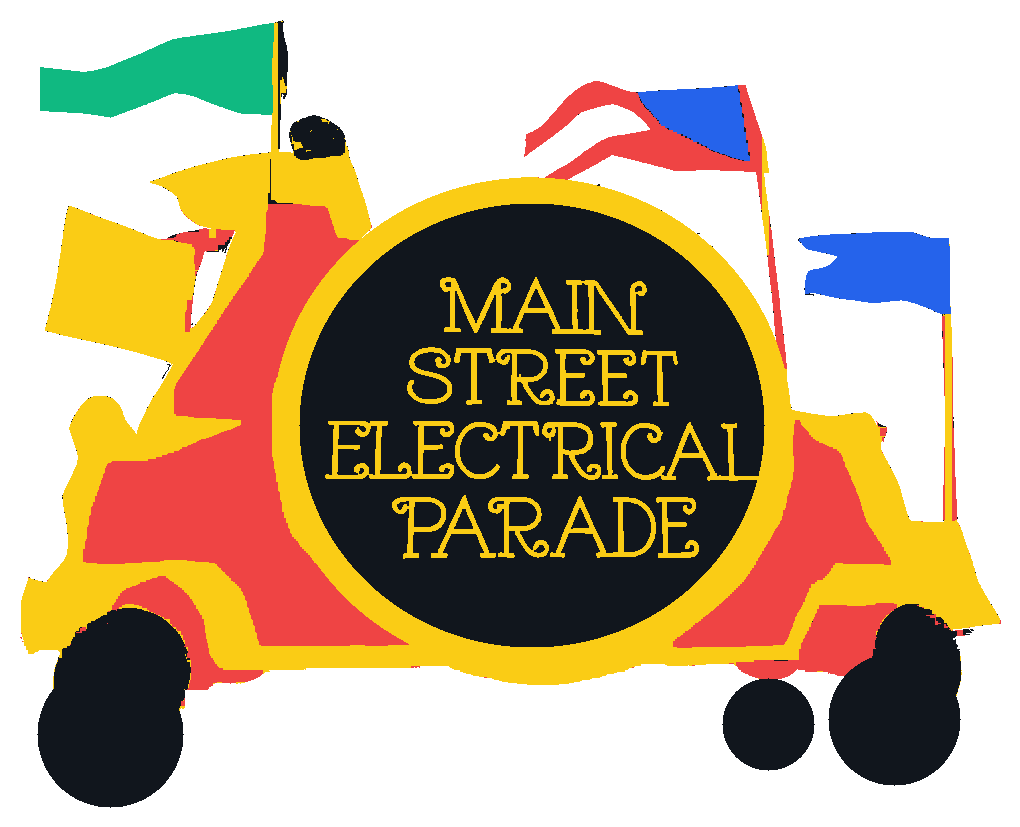
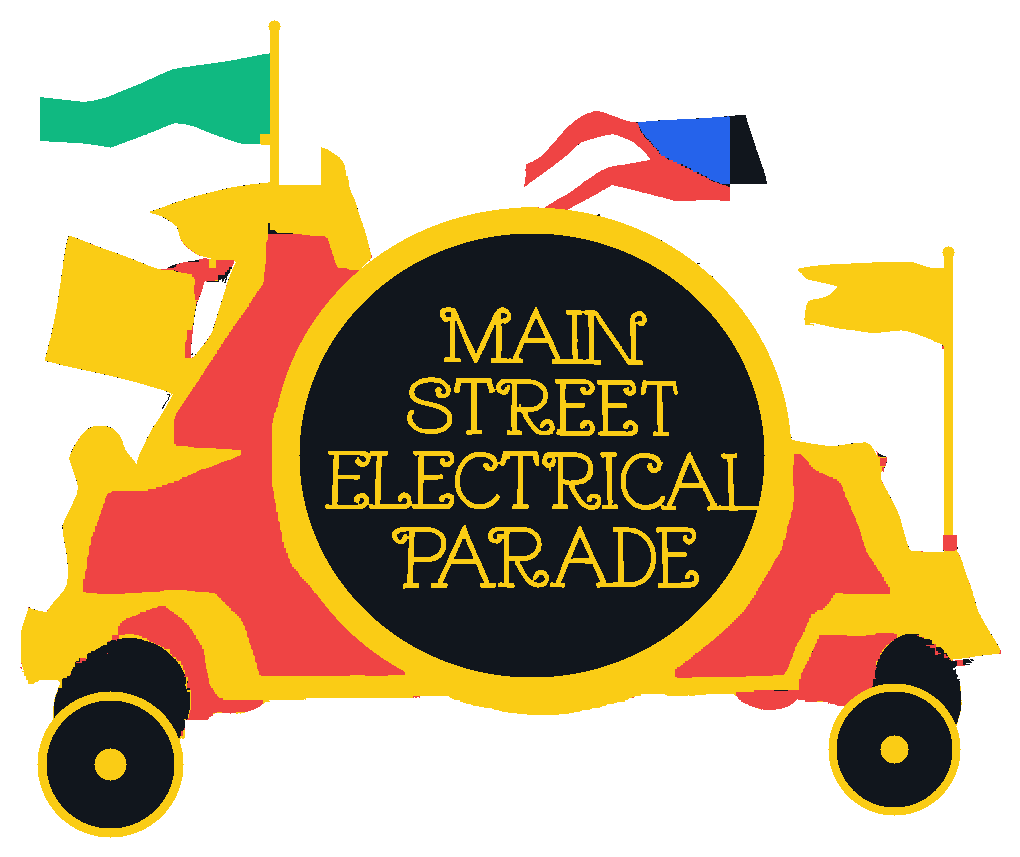
fix(assets): 2 gold-outlined wheels, clean gold poles, gold square flag, and roof dome on title drum

diff --git a/scripts/process_title_drum.py b/scripts/process_title_drum.py
@@ -1,7 +1,6 @@
 import cv2
 import numpy as np
 from PIL import Image
-import shutil
 import os
 
 def process_drum():
@@ -15,10 +14,10 @@ def process_drum():
     yy, xx = np.mgrid[:h, :w]
 
     # --- Target 5-Color Palette (Flat, Unshaded for Multi-Material 3D Printing) ---
-    # 1. Black:  #11161d -> RGB [17, 22, 29]   (Chassis, Drum Face, Wheels, Shadow Details)
-    # 2. Gold:   #facc15 -> RGB [250, 204, 21]  (Drum Ring, Curled Text, Canopy, Filigree, Poles)
-    # 3. Red:    #ef4444 -> RGB [239, 68, 68]   (Body Panels, Arches, Streamer Ribbon)
-    # 4. Blue:   #2563eb -> RGB [37, 99, 235]   (Streamer Pennant Tip, Rear Banner)
+    # 1. Black:  #11161d -> RGB [17, 22, 29]   (Chassis, Drum Face, Wheels Tire Body)
+    # 2. Gold:   #facc15 -> RGB [250, 204, 21]  (Drum Ring, Text, Wheel Rims/Hubs, Flagpoles, Square Flag, Canopy Dome)
+    # 3. Red:    #ef4444 -> RGB [239, 68, 68]   (Cab Body Panels, Arches, Streamer Ribbon)
+    # 4. Blue:   #2563eb -> RGB [37, 99, 235]   (Streamer Pennant Tip)
     # 5. Green:  #10b981 -> RGB [16, 185, 129]  (Lead Flag)
     C_TRANSPARENT = (0, 0, 0, 0)
     C_BLACK       = (17, 22, 29, 255)
@@ -34,7 +33,7 @@ def process_drum():
     drum_ring = (dist_out <= 1.0) & (dist_in > 1.0)
     drum_face = (dist_in <= 1.0)
 
-    # Extract text on drum face with inner letter counters (holes in P, A, R, D)
+    # Extract text on drum face with inner letter counters (holes in P, A, R, D intact)
     raw_text = drum_face & ((gray > 48) | ((hsv[:, :, 1] > 25) & (hsv[:, :, 2] > 45)))
     clean_text = cv2.morphologyEx(raw_text.astype(np.uint8)*255, cv2.MORPH_OPEN, np.ones((2,2), np.uint8))
     clean_text = cv2.morphologyEx(clean_text, cv2.MORPH_CLOSE, np.ones((2,2), np.uint8))
@@ -43,17 +42,28 @@ def process_drum():
     for c in ext_cnts:
         x_c, y_c, w_c, h_c = cv2.boundingRect(c)
         area = cv2.contourArea(c)
-        # Filters out large pinstripe arc (h > 150) and noise specks (area < 100), keeping all letters intact
         if h_c < 150 and area > 100:
             cv2.drawContours(letter_roi, [c], -1, 255, -1)
-
     drum_letters = (clean_text > 0) & (letter_roi > 0)
 
-    # --- 2. Wheels ---
-    w1 = (np.hypot(xx - 180, yy - 780) <= 73) & (yy >= 700)
-    w2 = (np.hypot(xx - 964, yy - 765) <= 66) & (yy >= 700)
-    w3 = (np.hypot(xx - 838, yy - 770) <= 46) & (yy >= 700)
-    wheels = w1 | w2 | w3
+    # --- 2. EXACTLY 2 WHEELS (Outlined in Gold with Gold Hubs) ---
+    # Front Wheel: center (180, 780), R=73
+    dist_w1 = np.hypot(xx - 180, yy - 780)
+    w1_full = (dist_w1 <= 73) & (yy >= 700)
+    w1_rim  = (dist_w1 <= 73) & (dist_w1 >= 64) & (yy >= 700)
+    w1_hub  = (dist_w1 <= 16) & (yy >= 700)
+    w1_tire = w1_full & (~w1_rim) & (~w1_hub)
+
+    # Rear Wheel: center (964, 765), R=66 (Middle wheel at x=838 is removed)
+    dist_w2 = np.hypot(xx - 964, yy - 765)
+    w2_full = (dist_w2 <= 66) & (yy >= 700)
+    w2_rim  = (dist_w2 <= 66) & (dist_w2 >= 58) & (yy >= 700)
+    w2_hub  = (dist_w2 <= 14) & (yy >= 700)
+    w2_tire = w2_full & (~w2_rim) & (~w2_hub)
+
+    wheels_all   = w1_full | w2_full
+    wheels_gold  = w1_rim | w1_hub | w2_rim | w2_hub
+    wheels_black = w1_tire | w2_tire
 
     # --- 3. Background & Foreground Ground Removal ---
     dark_pixels = (gray < 28) & (~drum_face)
@@ -70,6 +80,18 @@ def process_drum():
     sky_mask[:650, 1060:] = True
     sky_mask[:250, :110] = True
 
+    # Remove extra hanging red strip next to the square gold flag:
+    extra_red_strip = (xx >= 800) & (xx <= 860) & (yy >= 200) & (yy <= 450) & (dist_out > 1.0)
+    sky_mask[extra_red_strip] = True
+
+    # Clear air buffer to the right of front flagpole (removes floating black specks):
+    pole1_air = (xx >= 349) & (xx <= 390) & (yy >= 40) & (yy <= 200)
+    sky_mask[pole1_air] = True
+
+    # Clear air buffer around rear flagpole below square flag:
+    pole2_air = (xx >= 1010) & (xx <= 1040) & (yy >= 365) & (yy <= 550)
+    sky_mask[pole2_air] = True
+
     # Ground plane removal:
     ground_mask = np.zeros((h, w), bool)
     ground_cand = np.zeros((h, w), dtype=np.uint8)
@@ -81,54 +103,82 @@ def process_drum():
 
     # Floor / shadow cutoffs below and between wheels:
     ground_mask[yy > 855] = True
-    ground_mask[(xx >= 255) & (xx <= 785) & (yy > 735)] = True
+    ground_mask[(xx >= 255) & (xx <= 895) & (yy > 735)] = True
     ground_mask[(xx < 110) & (yy > 710)] = True
     ground_mask[(xx > 1035) & (yy > 730)] = True
 
-    # Complete float silhouette:
+    # Float silhouette:
     float_mask = (~sky_mask) & (~ground_mask)
-    float_mask[wheels | drum_ring | drum_face] = True
+    float_mask[wheels_all | drum_ring | drum_face] = True
 
-    # Filter out any tiny disconnected float specks:
+    # Filter out tiny disconnected float specks:
     num_f, labels_f, stats_f, _ = cv2.connectedComponentsWithStats(float_mask.astype(np.uint8))
     clean_float = np.zeros((h, w), bool)
     for i in range(1, num_f):
         if stats_f[i, cv2.CC_STAT_AREA] > 80:
             clean_float[labels_f == i] = True
-    clean_float[wheels | drum_ring | drum_face] = True
+    clean_float[wheels_all | drum_ring | drum_face] = True
 
-    # --- 4. Color Assignment & Segment Mapping ---
-    # Flagpoles:
-    pole1 = (np.abs(xx - 344) <= 3) & (yy >= 69) & (yy <= 245)
-    pole2 = (np.abs(xx - 835) <= 3) & (yy >= 135) & (yy <= 300)
-    pole3 = (np.abs(xx - 1018) <= 3) & (yy >= 278) & (yy <= 600)
-    flagpoles = pole1 | pole2 | pole3
+    # --- 4. Flagpoles (Clean & 100% Solid Gold) ---
+    pole1 = (np.abs(xx - 344) <= 4) & (yy >= 40) & (yy <= 245)
+    finial1 = (np.hypot(xx - 344, yy - 42) <= 6)
+    pole2 = (np.abs(xx - 1018) <= 4) & (yy >= 265) & (yy <= 550)
+    finial2 = (np.hypot(xx - 1018, yy - 268) <= 6)
+    clean_flagpoles = pole1 | finial1 | pole2 | finial2
 
-    # Green Lead Flag:
-    is_green_raw = (hsv[:, :, 0] >= 35) & (hsv[:, :, 0] <= 85) & (hsv[:, :, 1] > 25) & (hsv[:, :, 2] > 30) & (xx < 360) & (yy < 220)
+    # --- 5. Flags ---
+    # Green Lead Flag (swallowtail pennant at front cab):
+    is_green_raw = (hsv[:, :, 0] >= 35) & (hsv[:, :, 0] <= 85) & (hsv[:, :, 1] > 25) & (hsv[:, :, 2] > 30) & (xx < 344) & (yy < 220)
     green_flag = cv2.morphologyEx(is_green_raw.astype(np.uint8)*255, cv2.MORPH_CLOSE, np.ones((5, 5), np.uint8)) > 0
 
-    # Blue Flags (Streamer tip + rear flag):
-    is_blue_raw = (hsv[:, :, 0] >= 90) & (hsv[:, :, 0] <= 135) & (hsv[:, :, 1] > 30) & (hsv[:, :, 2] > 40)
-    blue_flags = cv2.morphologyEx(is_blue_raw.astype(np.uint8)*255, cv2.MORPH_CLOSE, np.ones((5, 5), np.uint8)) > 0
+    # Blue Flag: ONLY the pennant tip at top arch!
+    is_blue_raw = (hsv[:, :, 0] >= 90) & (hsv[:, :, 0] <= 135) & (hsv[:, :, 1] > 30) & (hsv[:, :, 2] > 40) & (yy < 200) & (xx > 600) & (xx < 800)
+    blue_pennant = cv2.morphologyEx(is_blue_raw.astype(np.uint8)*255, cv2.MORPH_CLOSE, np.ones((5, 5), np.uint8)) > 0
 
-    # Red Body & Streamer Ribbon:
-    is_pennant_red = ((hsv[:, :, 0] < 15) | (hsv[:, :, 0] > 165)) & (hsv[:, :, 1] > 30) & (hsv[:, :, 2] > 30) & (yy < 280) & (xx > 500) & (xx < 850)
-    is_body_red = ((hsv[:, :, 0] < 15) | (hsv[:, :, 0] > 165)) & (hsv[:, :, 1] > 25) & (hsv[:, :, 2] > 25) & (~drum_face) & (~wheels) & (yy >= 250) & (yy < 800)
-    body_red = cv2.morphologyEx((is_pennant_red | is_body_red).astype(np.uint8)*255, cv2.MORPH_CLOSE, np.ones((5, 5), np.uint8)) > 0
+    # Square Gold Flag (at the rear, x in [860, 1016], y in [270, 360]):
+    square_gold_flag = (xx >= 860) & (xx <= 1016) & (yy >= 270) & (yy <= 360) & clean_float & (dist_out > 1.0)
 
-    # Gold Trim, Sign & Filigree:
-    is_gold_raw = (hsv[:, :, 0] >= 15) & (hsv[:, :, 0] <= 35) & (hsv[:, :, 1] > 20) & (hsv[:, :, 2] > 40) & (~drum_face) & (~wheels) & (~green_flag) & (~blue_flags) & (~body_red) & (yy < 800)
-    gold_body = cv2.morphologyEx(is_gold_raw.astype(np.uint8)*255, cv2.MORPH_CLOSE, np.ones((5, 5), np.uint8)) > 0
+    # Red Body Panels & Streamer Ribbon:
+    is_pennant_red = ((hsv[:, :, 0] < 15) | (hsv[:, :, 0] > 165)) & (hsv[:, :, 1] > 30) & (hsv[:, :, 2] > 30) & (yy < 280) & (xx > 500) & (xx < 800)
+    is_body_red = ((hsv[:, :, 0] < 15) | (hsv[:, :, 0] > 165)) & (hsv[:, :, 1] > 25) & (hsv[:, :, 2] > 25) & (~drum_face) & (~wheels_all) & (yy >= 250) & (yy < 800)
+    body_red_raw = (is_pennant_red | is_body_red) & (~extra_red_strip) & (~square_gold_flag)
+    body_red = cv2.morphologyEx(body_red_raw.astype(np.uint8)*255, cv2.MORPH_CLOSE, np.ones((5, 5), np.uint8)) > 0
+    body_red &= (~extra_red_strip)
+    body_red &= (~square_gold_flag)
 
-    # --- 5. Assemble Production 5-Color RGBA Array ---
+    # --- 6. Black bit on top of cab canopy (near green flag) -> MAKE GOLD ---
+    roof_dome = (xx >= 330) & (xx <= 425) & (yy >= 150) & (yy <= 220) & clean_float
+
+    # Gold Body / Trim / Filigree:
+    is_gold_raw = (hsv[:, :, 0] >= 15) & (hsv[:, :, 0] <= 35) & (hsv[:, :, 1] > 20) & (hsv[:, :, 2] > 40) & (~drum_face) & (~wheels_all) & (~green_flag) & (~blue_pennant) & (~body_red) & (yy < 800)
+    gold_body = cv2.morphologyEx(is_gold_raw.astype(np.uint8)*255, cv2.MORPH_CLOSE, np.ones((7, 7), np.uint8)) > 0
+    gold_body |= roof_dome
+    gold_body |= square_gold_flag
+    gold_body |= clean_flagpoles
+    gold_body |= wheels_gold
+
+    # --- 7. Assemble Production 5-Color RGBA Array ---
     out = np.zeros((h, w, 4), dtype=np.uint8)
     out[clean_float] = C_BLACK
     out[clean_float & body_red] = C_RED
-    out[clean_float & (gold_body | flagpoles)] = C_GOLD
-    out[clean_float & blue_flags] = C_BLUE
+    out[clean_float & gold_body] = C_GOLD
+    out[clean_float & blue_pennant] = C_BLUE
     out[clean_float & green_flag] = C_GREEN
-    out[wheels] = C_BLACK
+
+    # Ensure Wheels:
+    out[wheels_black] = C_BLACK
+    out[wheels_gold] = C_GOLD
+
+    # Ensure Flagpoles are 100% Solid Gold:
+    out[clean_flagpoles] = C_GOLD
+
+    # Ensure Roof Dome is 100% Solid Gold:
+    out[roof_dome & clean_float] = C_GOLD
+
+    # Ensure Square Flag is 100% Solid Gold:
+    out[square_gold_flag & clean_float] = C_GOLD
+
+    # Drum face and ring:
     out[drum_ring] = C_GOLD
     out[drum_face] = C_BLACK
     out[drum_letters] = C_GOLD
@@ -154,10 +204,10 @@ def process_drum():
     print("\nVerified Color Palette:")
     color_names = {
         C_TRANSPARENT: "Transparent Background",
-        C_BLACK: "Black (Chassis / Drum Face / Wheels)",
-        C_GOLD: "Gold (Drum Ring / Text / Scrollwork)",
+        C_BLACK: "Black (Chassis / Drum Face / Wheel Tires)",
+        C_GOLD: "Gold (Drum Ring / Text / Wheels Gold Rim & Hub / Flagpoles / Square Flag / Canopy Dome)",
         C_RED: "Red (Body Panels / Streamer)",
-        C_BLUE: "Blue (Pennant / Flags)",
+        C_BLUE: "Blue (Streamer Pennant Tip)",
         C_GREEN: "Green (Lead Flag)"
     }
     for col, cnt in zip(colors, counts):

diff --git a/PROJECT_PROGRESS.md b/PROJECT_PROGRESS.md
@@ -105,12 +105,17 @@ This project coordinates synchronized, addressable LED lighting across **7 runne
       - Flooded grey ground plane ($y \ge 650, 55 < gray < 120, S < 35$) and shaved bottom floor shadow between wheels ($y > 735$), preserving the full circular disks of all three wheels down to $y = 853$ (Front $R = 73$), $y = 831$ (Rear $R = 66$), and $y = 816$ (Mid $R = 46$).
   - **Flat 5-Color Unshaded Simplification (Bambu AMS 3D Multi-Material):**
     - Simplified all shading, specular highlights, and gradients into strictly 5 flat, unshaded colors:
-      - **Black (`#11161d` / RGB `[17, 22, 29]`):** Chassis undercarriage, drum face backdrop, solid round wheels, cab interior frame.
-      - **Gold (`#facc15` / RGB `[250, 204, 21]`):** Outer drum ring ($R_{out}=259.5, 248.0; R_{in}=232.5, 222.0$), curved typography "MAIN STREET ELECTRICAL PARADE" (with letter counters in P, A, R, D intact), canopy scrollwork, front crest signboard, brass flagpoles.
-      - **Red (`#ef4444` / RGB `[239, 68, 68]`):** Sculptural body panels, drum cradle arches, upper streamer ribbon.
-      - **Blue (`#2563eb` / RGB `[37, 99, 235]`):** Streamer pennant tip, rear flag/banner.
+      - **Black (`#11161d` / RGB `[17, 22, 29]`):** Chassis undercarriage, drum face backdrop, wheel tire bodies, cab interior frame.
+      - **Gold (`#facc15` / RGB `[250, 204, 21]`):** Outer drum marquee ring, curved typography "MAIN STREET ELECTRICAL PARADE" (with letter counters intact), two wheel rims & center hubs, flagpoles & finials, square rear flag, cab canopy dome & scrollwork, front crest signboard.
+      - **Red (`#ef4444` / RGB `[239, 68, 68]`):** Sculptural cab body panels, drum cradle arches, upper streamer ribbon.
+      - **Blue (`#2563eb` / RGB `[37, 99, 235]`):** Streamer pennant tip (top arch).
       - **Green (`#10b981` / RGB `[16, 185, 129]`):** Lead forward flag on flagpole 1 ($x \approx 344$).
     - Zero intermediate antialiasing or gradient pixels—100% of non-transparent pixels belong strictly to one of the 5 colors.
+  - **Wheel & Detailing Refinements (Visual Contrast & Feature Polish):**
+    - **Reduced to Exactly 2 Wheels with Gold Outlines:** Eliminated the extra middle wheel ($x \approx 838$) to match the authentic 2-axle wagon profile with clear floor clearance between wheels. Outlined both the Front Wheel ($R = 73$) and Rear Wheel ($R = 66$) with crisp 8px gold rims and solid gold center hubcaps, establishing high-contrast visual pop against the black chassis floor.
+    - **Cleaned Flagpoles (100% Solid Gold):** Cleared floating black noise specks to the right of the front pole ($x \approx 344$) and red border slivers along the rear pole ($x \approx 1018$). Flagpoles now stand as continuous, solid gold columns topped with gold spherical finials.
+    - **Removed Extra Red Strip next to Square Gold Flag:** Eradicated the hanging ribbon tail/vertical red artifact ($x \in [800, 860], y \in [200, 450]$) between the drum ring and the square flag, opening up clean negative space. Set the square flag to 100% solid gold.
+    - **Made Cab Canopy Roof Dome Gold:** Converted the black section on top of the main gold canopy near the green flag ($x \in [330, 425], y \in [150, 220]$) to solid gold, harmonizing the entire ornate cab roof structure.
   - **Repository & Tooling Synchronization:**
     - Saved transparent production asset to `assets/title_drum.png` (1020x827) and mirrored to `simulator/assets/title_drum.png`.
     - Created deterministic conversion pipeline in `scripts/process_title_drum.py`.
